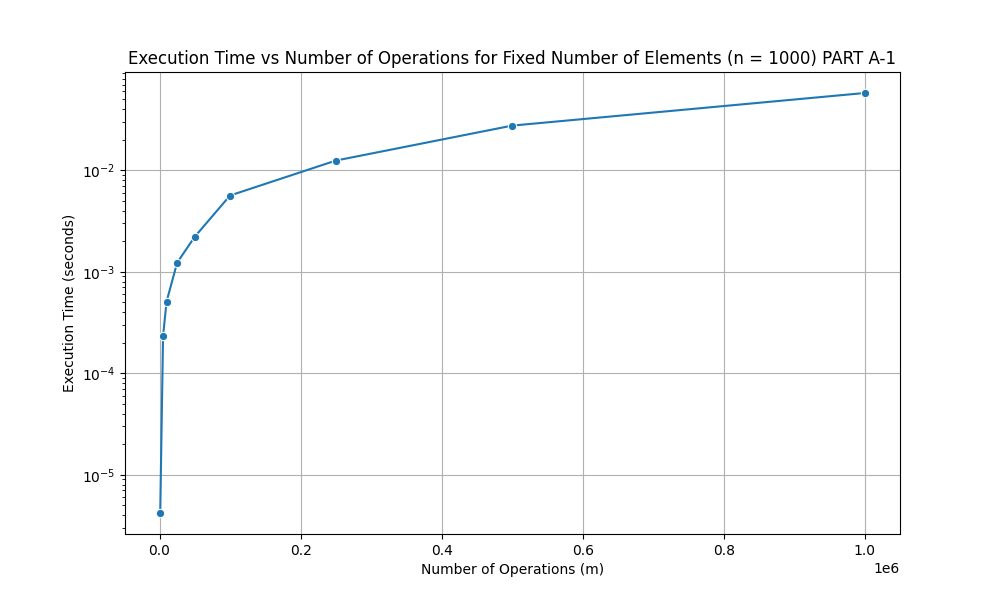
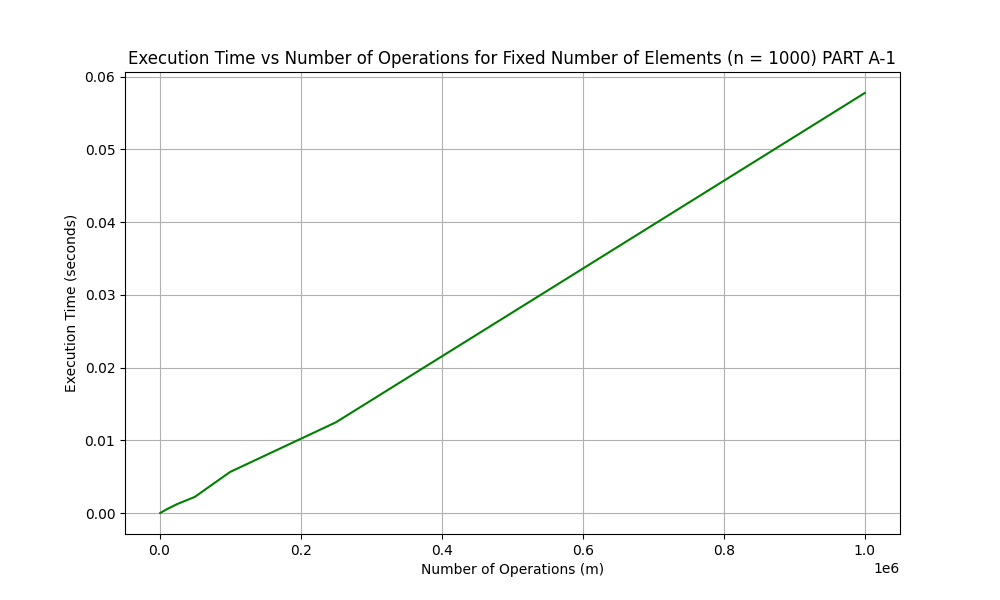
chnage graphs

diff --git a/Assignment 3/plotA.py b/Assignment 3/plotA.py
@@ -8,11 +8,10 @@ print(dataA1)
 
 # Execution Time vs. Number of Operations for Fixed Number of Elements
 plt.figure(figsize=(10, 6))
-sns.lineplot(x=dataA1['Number of operations'], y=dataA1['Execution time'], marker='o')
+sns.lineplot(x=dataA1['Number of operations'], y=dataA1['Execution time'], color='green')
 plt.title('Execution Time vs Number of Operations for Fixed Number of Elements (n = 1000) PART A-1')
 plt.xlabel('Number of Operations (m)')
 plt.ylabel('Execution Time (seconds)')
-plt.yscale('log')
 plt.grid(True)
 
 plt.savefig('Assignment 3/Graphs/part_A_1.png')
@@ -25,11 +24,10 @@ print(dataA2)
 
 # Execution Time vs. Number of Operations for Fixed Number of Elements
 plt.figure(figsize=(10, 6))
-sns.lineplot(x=dataA2['Number of operations'], y=dataA2['Execution time'], marker='o')
+sns.lineplot(x=dataA2['Number of operations'], y=dataA2['Execution time'], color='purple')
 plt.title('Execution Time vs Number of Operations for Fixed Number of Elements (n = 1000) PART A-2')
 plt.xlabel('Number of Operations (m)')
 plt.ylabel('Execution Time (seconds)')
-plt.yscale('log')
 plt.grid(True)
 
 plt.savefig('Assignment 3/Graphs/part_A_2.png')
@@ -38,12 +36,11 @@ plt.show()
 
 # Combined Plot
 plt.figure(figsize=(10, 6))
-sns.lineplot(x=dataA1['Number of operations'], y=dataA1['Execution time'], marker='o', label='Part A-1')
-sns.lineplot(x=dataA2['Number of operations'], y=dataA2['Execution time'], marker='o', label='Part A-2')
+sns.lineplot(x=dataA1['Number of operations'], y=dataA1['Execution time'], label='Part A-1', color='green')
+sns.lineplot(x=dataA2['Number of operations'], y=dataA2['Execution time'], label='Part A-2', color='purple')
 plt.title('Execution Time vs Number of Operations for Fixed Number of Elements (n = 1000)')
 plt.xlabel('Number of Operations (m)')
 plt.ylabel('Execution Time (seconds)')
-plt.yscale('log')
 plt.grid(True)
 plt.legend()
 
